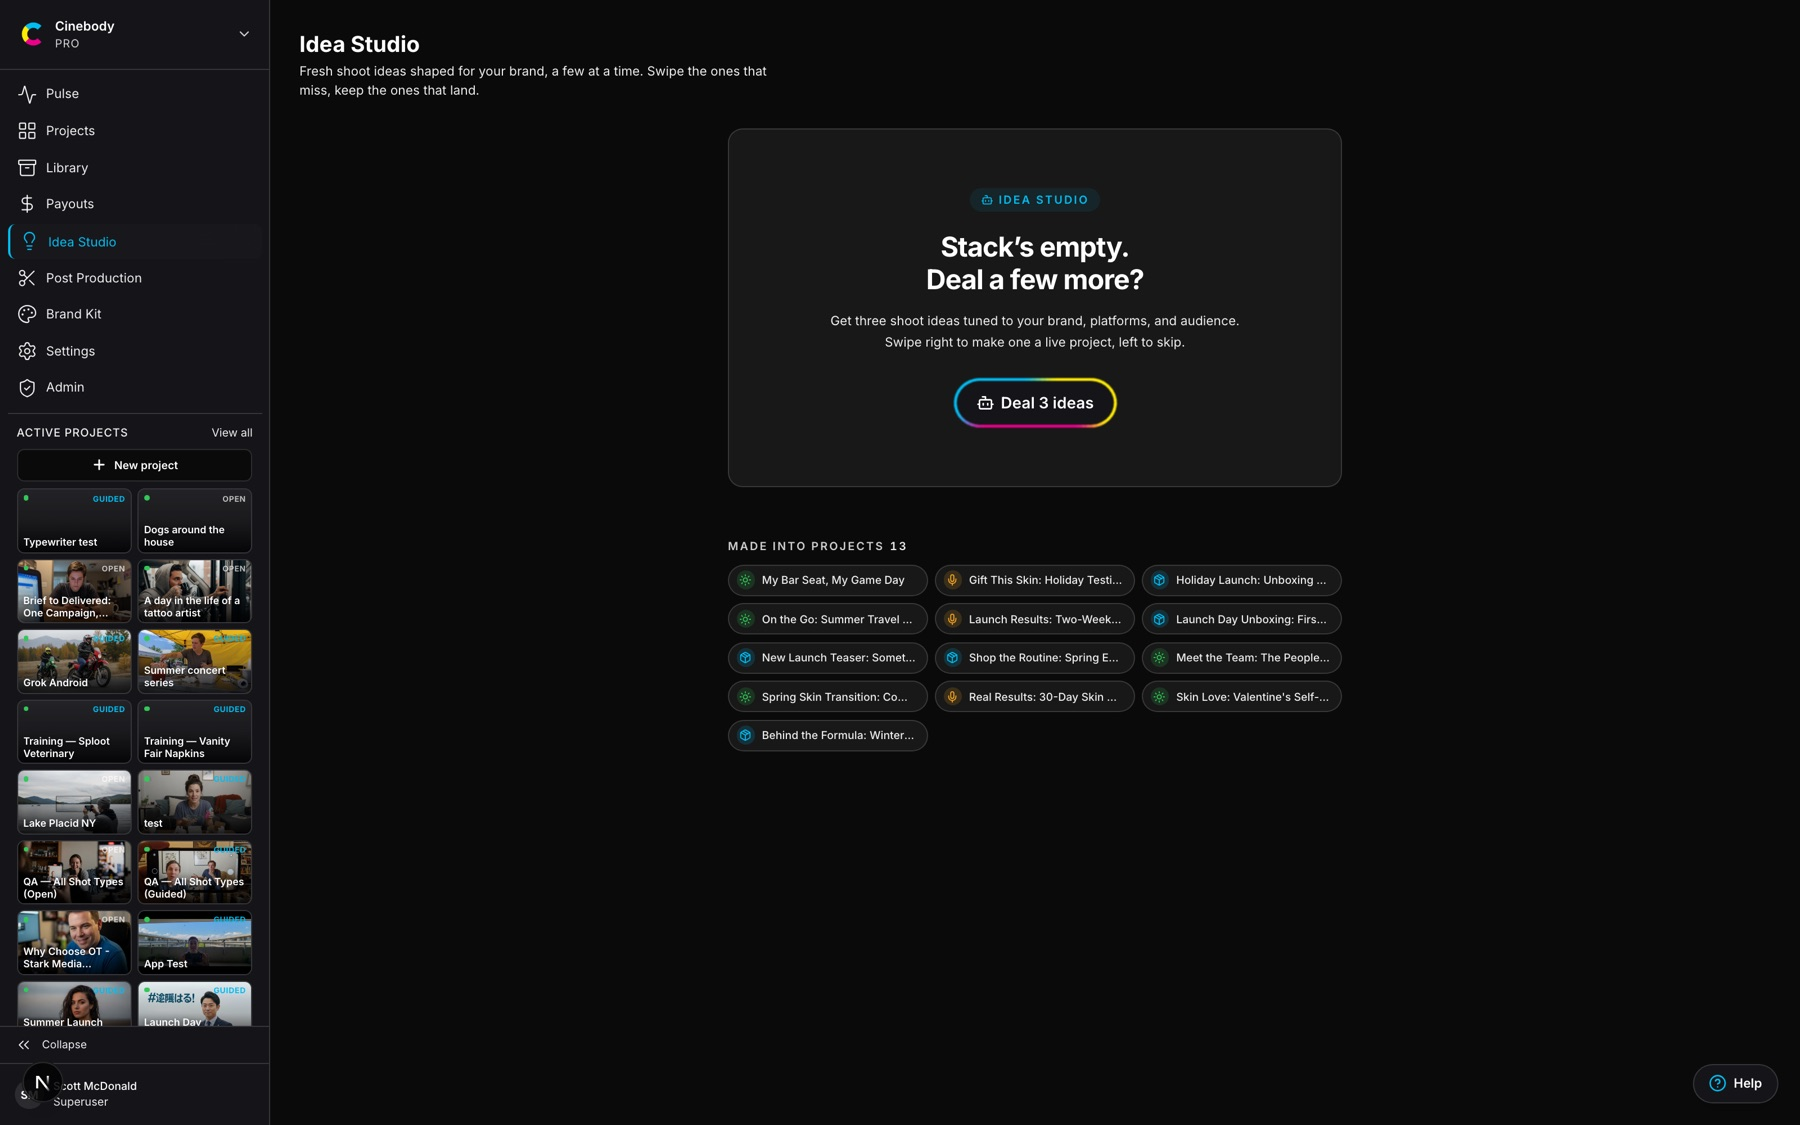
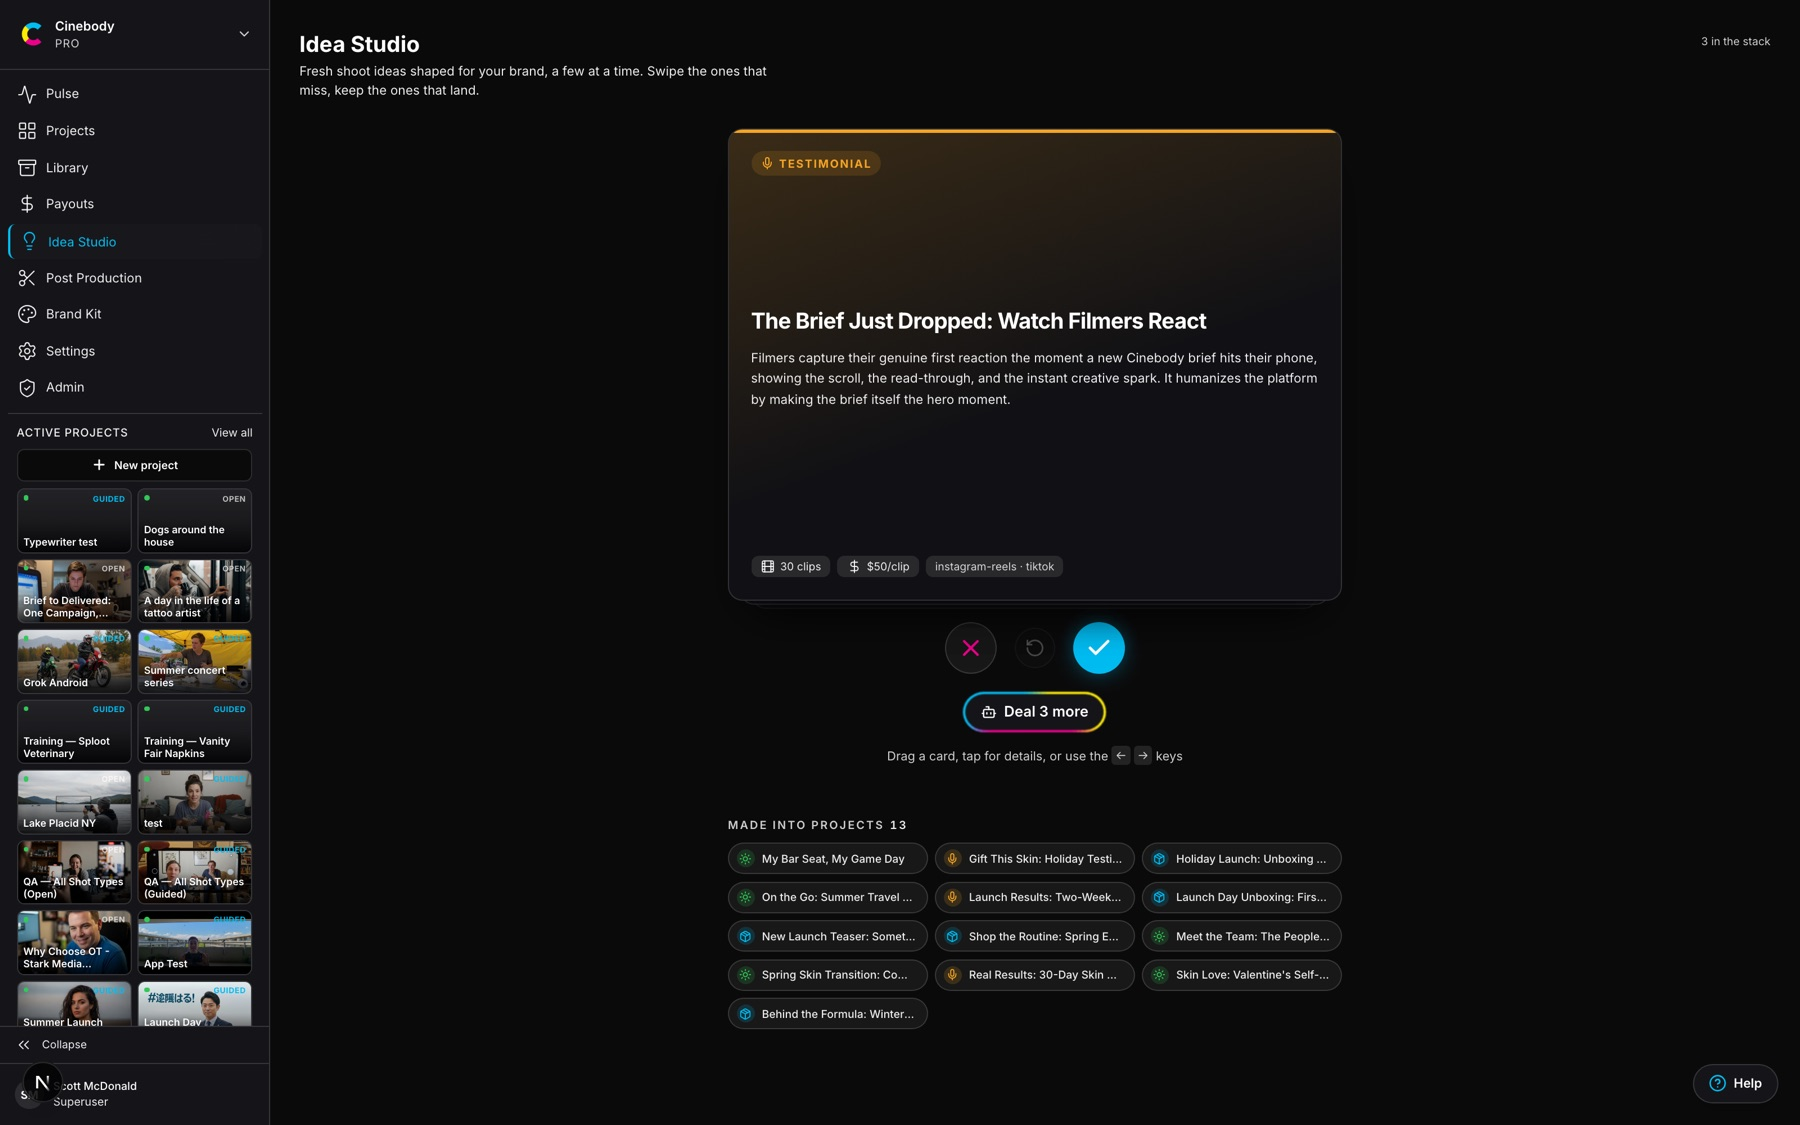
Platform tour: seven sections in sidebar order (Pulse through Brand Kit), verified live captures, shot list + filmer phone duo, clip review drawer, seeked timeline

diff --git a/site/src/fragments/platform.html b/site/src/fragments/platform.html
@@ -642,6 +642,8 @@ body > * { position: relative; z-index: 1; }
 .pipe-bar span { width: 10px; height: 10px; border-radius: 50%; background: rgba(255,255,255,0.14); }
 .pipe-cap { margin-top: 20px; font-family: var(--mono); font-size: 12px; text-transform: uppercase; letter-spacing: 0.08em; color: rgba(255,255,255,0.55); text-align: center; }
 .pipe-stack { position: relative; padding: 26px 0 0 26px; }
+.pipe-duo { position: relative; padding: 0 30px 40px 0; }
+.pipe-duo-phone { position: absolute; right: -6px; bottom: 0; width: 168px; max-width: none; margin: 0; z-index: 2; box-shadow: 0 24px 60px rgba(0,0,0,0.35); }
 .pipe-stack-back { position: absolute; top: 0; left: 0; right: 52px; opacity: 0.55; filter: saturate(0.8); }
 .pipe-stack-front { position: relative; z-index: 2; }
 .feat { padding: 90px 0; overflow: hidden; }
@@ -701,85 +703,85 @@ body > * { position: relative; z-index: 1; }
     <div class="pipeline-head reveal">
       <div class="label" style="text-align:center;">The tour</div>
       <h2>Inside the platform.</h2>
-      <p>What each part of Cinebody actually does, shown with real screens from the product. The homepage tells the story. This is the tour.</p>
+      <p>What each part of Cinebody actually does, in the order you'll use it, shown with real screens from the product. Click any screen to look closer.</p>
     </div>
 
-    <!-- Stage 01 -->
+    <!-- 1. Pulse -->
     <div class="pipe-stage reveal">
       <div class="pipe-copy">
-        <div class="pipe-num">AI Shotlist &amp; Projects</div>
-        <h3>Every project starts with a plan</h3>
-        <p>Tell it what you're making and the shot list writes itself, every shot with plain-language directions anyone can follow. From the same screen you invite filmers, share the link, watch clips land, and see scores update live. One project HQ instead of a producer's spreadsheet.</p>
+        <div class="pipe-num">Pulse</div>
+        <h3>See everything happening, live</h3>
+        <p>One screen with the whole operation: where clips are being filmed right now, how quality is trending, which projects need you, and every filmer conversation. The day starts here.</p>
       </div>
       <div class="pipe-visual">
-        <div class="pipe-frame pipe-frame--browser"><div class="pipe-bar"><span></span><span></span><span></span></div><img src="/app-ui/live/desk-shoot.jpg" alt="A real Cinebody project: shotlist, filmers, and every clip scored" loading="lazy"></div>
-        <div class="pipe-cap">A real project HQ · the plan, the filmers, the scores</div>
+        <div class="pipe-frame pipe-frame--browser"><div class="pipe-bar"><span></span><span></span><span></span></div><img src="/app-ui/live/desk-pulse.jpg" alt="Pulse: the live overview of every project, clip, and conversation" loading="lazy"></div>
+        <div class="pipe-cap">Pulse · the whole operation on one screen</div>
       </div>
     </div>
-
   </div>
 </section>
 
 <!-- curve: dark → white -->
 <div class="curve"><svg viewBox="0 0 1440 80" preserveAspectRatio="none"><rect width="1440" height="80" fill="#08131a"/><path d="M0,10 Q720,60 1440,10 L1440,80 L0,80 Z" fill="#fff"/></svg></div>
 
+<!-- 2. Projects -->
 <section class="feat feat--light">
   <div class="contain">
-    <!-- Stage 02 -->
     <div class="pipe-stage flip reveal">
       <div class="pipe-copy">
-        <div class="pipe-num">The Filmer Link</div>
-        <h3>Anyone films from a text</h3>
-        <p>No account, no setup. The link opens right in the phone, shows what to film and what it pays, and the AI Director coaches every shot live: framing, light, steadiness. When every check clears, they nailed it. First-take pro footage from anyone you send it to.</p>
+        <div class="pipe-num">Projects</div>
+        <h3>Every project starts with a plan</h3>
+        <p>Tell it what you're making and the shot list writes itself, with plain directions anyone can follow. Then send the filmer link by text: it opens right in the phone, shows what to film and what it pays, and anyone is capturing in seconds.</p>
       </div>
       <div class="pipe-visual">
-        <div class="pipe-frame pipe-frame--phone"><img src="/app-ui/live/phone-filmer.jpg" alt="The filmer link on a phone: shot count, payout, start filming" loading="lazy"></div>
-        <div class="pipe-cap">The filmer link · anyone films from a text</div>
+        <div class="pipe-duo">
+          <div class="pipe-frame pipe-frame--browser"><div class="pipe-bar"><span></span><span></span><span></span></div><img src="/app-ui/live/desk-shotlist.jpg" alt="A real shot list: four shots with plain-language directions" loading="lazy"></div>
+          <div class="pipe-frame pipe-frame--phone pipe-duo-phone"><img src="/app-ui/live/phone-filmer.jpg" alt="The filmer link on a phone" loading="lazy"></div>
+        </div>
+        <div class="pipe-cap">A real shot list · and the link filmers get</div>
       </div>
     </div>
-
   </div>
 </section>
 
 <!-- curve: white → dark -->
 <div class="curve"><svg viewBox="0 0 1440 80" preserveAspectRatio="none"><rect width="1440" height="80" fill="#fff"/><path d="M0,10 Q720,60 1440,10 L1440,80 L0,80 Z" fill="#0a0a0a"/></svg></div>
 
+<!-- 3. Library + Clip Review -->
 <section class="feat feat--dark2">
   <div class="contain">
-    <!-- Stage 03 -->
     <div class="pipe-stage reveal">
       <div class="pipe-copy">
-        <div class="pipe-num">AI Clip Review</div>
+        <div class="pipe-num">Library &amp; AI Clip Review</div>
         <h3>Footage that grades itself</h3>
-        <p>Every clip is transcribed and scored the second it arrives: audio, stability, focus, exposure, framing, plus a plain verdict. The best moments surface, weak takes get flagged for a redo, and the whole library stays searchable by what people actually said.</p>
+        <p>Every clip lands transcribed and scored: audio, stability, focus, exposure, framing, plus a plain verdict and what would make it better. Open any clip for the full review, approve it or send it back, and search the whole library by what people actually said.</p>
       </div>
       <div class="pipe-visual">
-        <div class="pipe-frame pipe-frame--browser"><div class="pipe-bar"><span></span><span></span><span></span></div><img src="/app-ui/live/desk-library.jpg" alt="The Cinebody library: every clip scored the moment it lands" loading="lazy"></div>
-        <div class="pipe-cap">AI Clip Review · every clip scored as it lands</div>
+        <div class="pipe-stack">
+          <div class="pipe-frame pipe-frame--browser pipe-stack-back"><div class="pipe-bar"><span></span><span></span><span></span></div><img src="/app-ui/live/desk-library.jpg" alt="The library: every clip scored on arrival" loading="lazy"></div>
+          <div class="pipe-frame pipe-frame--browser pipe-stack-front"><div class="pipe-bar"><span></span><span></span><span></span></div><img src="/app-ui/live/desk-clipdetail.jpg" alt="A clip review: 6/10 with the reasons why" loading="lazy"></div>
+        </div>
+        <div class="pipe-cap">AI Clip Review · a real score, with the reason why</div>
       </div>
     </div>
-
   </div>
 </section>
 
 <!-- curve: dark → white -->
 <div class="curve"><svg viewBox="0 0 1440 80" preserveAspectRatio="none"><rect width="1440" height="80" fill="#041a24"/><path d="M0,10 Q720,60 1440,10 L1440,80 L0,80 Z" fill="#fff"/></svg></div>
 
+<!-- 4. Payouts -->
 <section class="feat feat--light">
   <div class="contain">
-    <!-- Stage 04 -->
     <div class="pipe-stage flip reveal">
       <div class="pipe-copy">
-        <div class="pipe-num">Auto-Editor</div>
-        <h3>From a pile of clips to a timeline in one click</h3>
-        <p>It reads all your footage, tells you the story it found, and one click builds the cut: best takes in order, B-roll over the seams, captions, music. Don't love it? Type a note like "get to the hook faster" and it revises just that. Export when it's yours.</p>
+        <div class="pipe-num">Payouts</div>
+        <h3>Pay filmers without the spreadsheet</h3>
+        <p>Fund a project once and pay everyone from one screen: flat rates, bounties, or gift cards. Filmers see what a project pays before they pick up the phone, and payouts go out the moment you approve.</p>
       </div>
       <div class="pipe-visual">
-        <div class="pipe-stack">
-          <div class="pipe-frame pipe-frame--browser pipe-stack-back"><div class="pipe-bar"><span></span><span></span><span></span></div><img src="/app-ui/live/desk-postproduction.jpg" alt="Planning the cut: the AI reads the footage and writes the brief" loading="lazy"></div>
-          <div class="pipe-frame pipe-frame--browser pipe-stack-front"><div class="pipe-bar"><span></span><span></span><span></span></div><img src="/app-ui/live/desk-postgen.jpg" alt="One click later: a finished timeline with cuts, captions, and music" loading="lazy"></div>
-        </div>
-        <div class="pipe-cap">Auto-Editor · one click, a finished timeline</div>
+        <div class="pipe-frame pipe-frame--browser"><div class="pipe-bar"><span></span><span></span><span></span></div><img src="/app-ui/live/desk-payouts.jpg" alt="Payouts: funded budgets and one-click filmer payments" loading="lazy"></div>
+        <div class="pipe-cap">Payouts · funded budgets, one-click payments</div>
       </div>
     </div>
   </div>
@@ -788,9 +790,9 @@ body > * { position: relative; z-index: 1; }
 <!-- curve: white → dark -->
 <div class="curve"><svg viewBox="0 0 1440 80" preserveAspectRatio="none"><rect width="1440" height="80" fill="#fff"/><path d="M0,10 Q720,60 1440,10 L1440,80 L0,80 Z" fill="#0a0a0a"/></svg></div>
 
+<!-- 5. Idea Studio -->
 <section class="feat feat--dark3">
   <div class="contain">
-    <!-- Idea Studio -->
     <div class="pipe-stage reveal">
       <div class="pipe-copy">
         <div class="pipe-num">Idea Studio</div>
@@ -798,11 +800,53 @@ body > * { position: relative; z-index: 1; }
         <p>The AI deals you fresh shoot ideas built on your brand, a few at a time, like cards. Skip the misses, keep a winner, and it becomes a live project with the shot list already started.</p>
       </div>
       <div class="pipe-visual">
-        <div class="pipe-frame pipe-frame--browser"><div class="pipe-bar"><span></span><span></span><span></span></div><img src="/app-ui/live/desk-ideastudio.jpg" alt="Idea Studio dealing shoot ideas as a swipe deck" loading="lazy"></div>
+        <div class="pipe-frame pipe-frame--browser"><div class="pipe-bar"><span></span><span></span><span></span></div><img src="/app-ui/live/desk-ideastudio.jpg" alt="Idea Studio: a dealt idea card, ready to keep or skip" loading="lazy"></div>
         <div class="pipe-cap">Idea Studio · keep one and it becomes a project</div>
       </div>
     </div>
+  </div>
+</section>
 
+<!-- curve: dark → white -->
+<div class="curve"><svg viewBox="0 0 1440 80" preserveAspectRatio="none"><rect width="1440" height="80" fill="#08131a"/><path d="M0,10 Q720,60 1440,10 L1440,80 L0,80 Z" fill="#fff"/></svg></div>
+
+<!-- 6. Post Production -->
+<section class="feat feat--light">
+  <div class="contain">
+    <div class="pipe-stage flip reveal">
+      <div class="pipe-copy">
+        <div class="pipe-num">Post Production</div>
+        <h3>From a pile of clips to a timeline in one click</h3>
+        <p>It reads all your footage, tells you the story it found, and one click builds the cut: best takes in order, B-roll over the seams, captions, music. Don't love it? Type a note like "get to the hook faster" and it revises just that. Export when it's yours.</p>
+      </div>
+      <div class="pipe-visual">
+        <div class="pipe-stack">
+          <div class="pipe-frame pipe-frame--browser pipe-stack-back"><div class="pipe-bar"><span></span><span></span><span></span></div><img src="/app-ui/live/desk-postproduction.jpg" alt="The AI reads the footage and writes the story brief" loading="lazy"></div>
+          <div class="pipe-frame pipe-frame--browser pipe-stack-front"><div class="pipe-bar"><span></span><span></span><span></span></div><img src="/app-ui/live/desk-postgen.jpg" alt="One click later: a finished timeline with captions and music" loading="lazy"></div>
+        </div>
+        <div class="pipe-cap">Auto-Editor · the story it found, and the timeline it built</div>
+      </div>
+    </div>
+  </div>
+</section>
+
+<!-- curve: white → dark -->
+<div class="curve"><svg viewBox="0 0 1440 80" preserveAspectRatio="none"><rect width="1440" height="80" fill="#fff"/><path d="M0,10 Q720,60 1440,10 L1440,80 L0,80 Z" fill="#0a0a0a"/></svg></div>
+
+<!-- 7. Brand Kit -->
+<section class="feat feat--dark3">
+  <div class="contain">
+    <div class="pipe-stage reveal">
+      <div class="pipe-copy">
+        <div class="pipe-num">Brand Kit</div>
+        <h3>Your brand, learned once</h3>
+        <p>Point it at your website and it drafts your logo, colors, voice, and filming rules. From then on, every cover, caption, and cut stays on brand automatically, across every project.</p>
+      </div>
+      <div class="pipe-visual">
+        <div class="pipe-frame pipe-frame--browser"><div class="pipe-bar"><span></span><span></span><span></span></div><img src="/app-ui/live/desk-brandkit.jpg" alt="Brand Kit: fetched from your website, applied everywhere" loading="lazy"></div>
+        <div class="pipe-cap">Brand Kit · fetched straight from your site</div>
+      </div>
+    </div>
   </div>
 </section>
 
